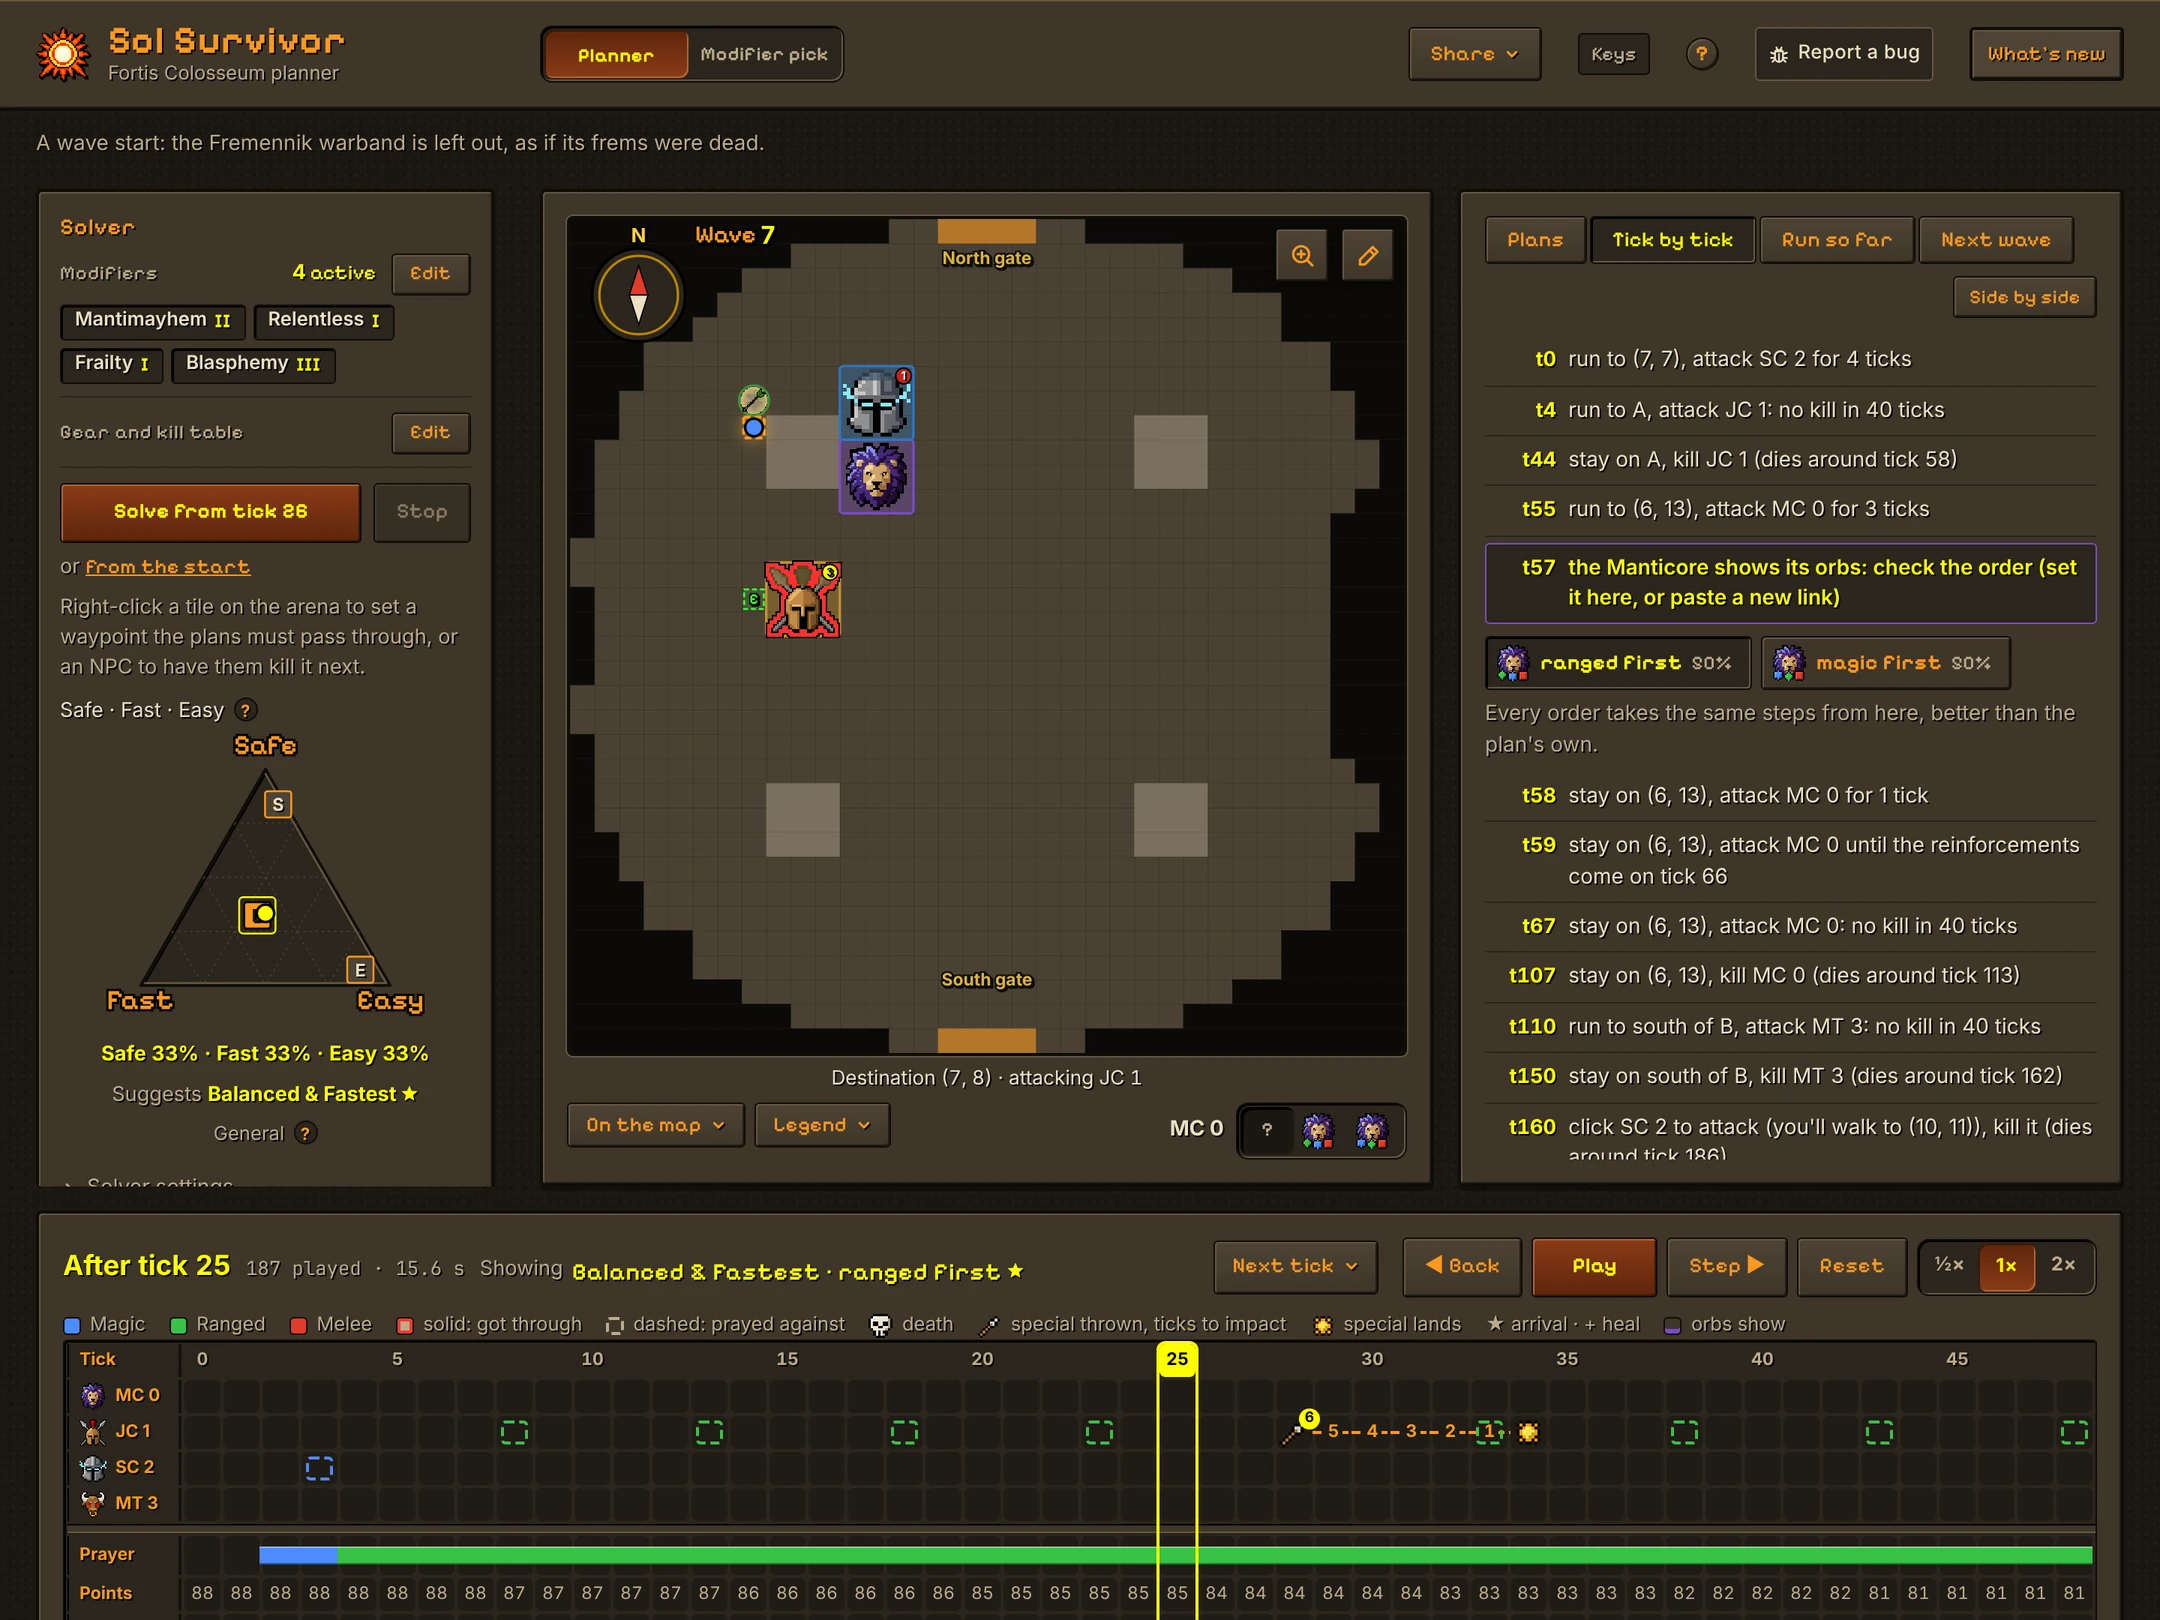
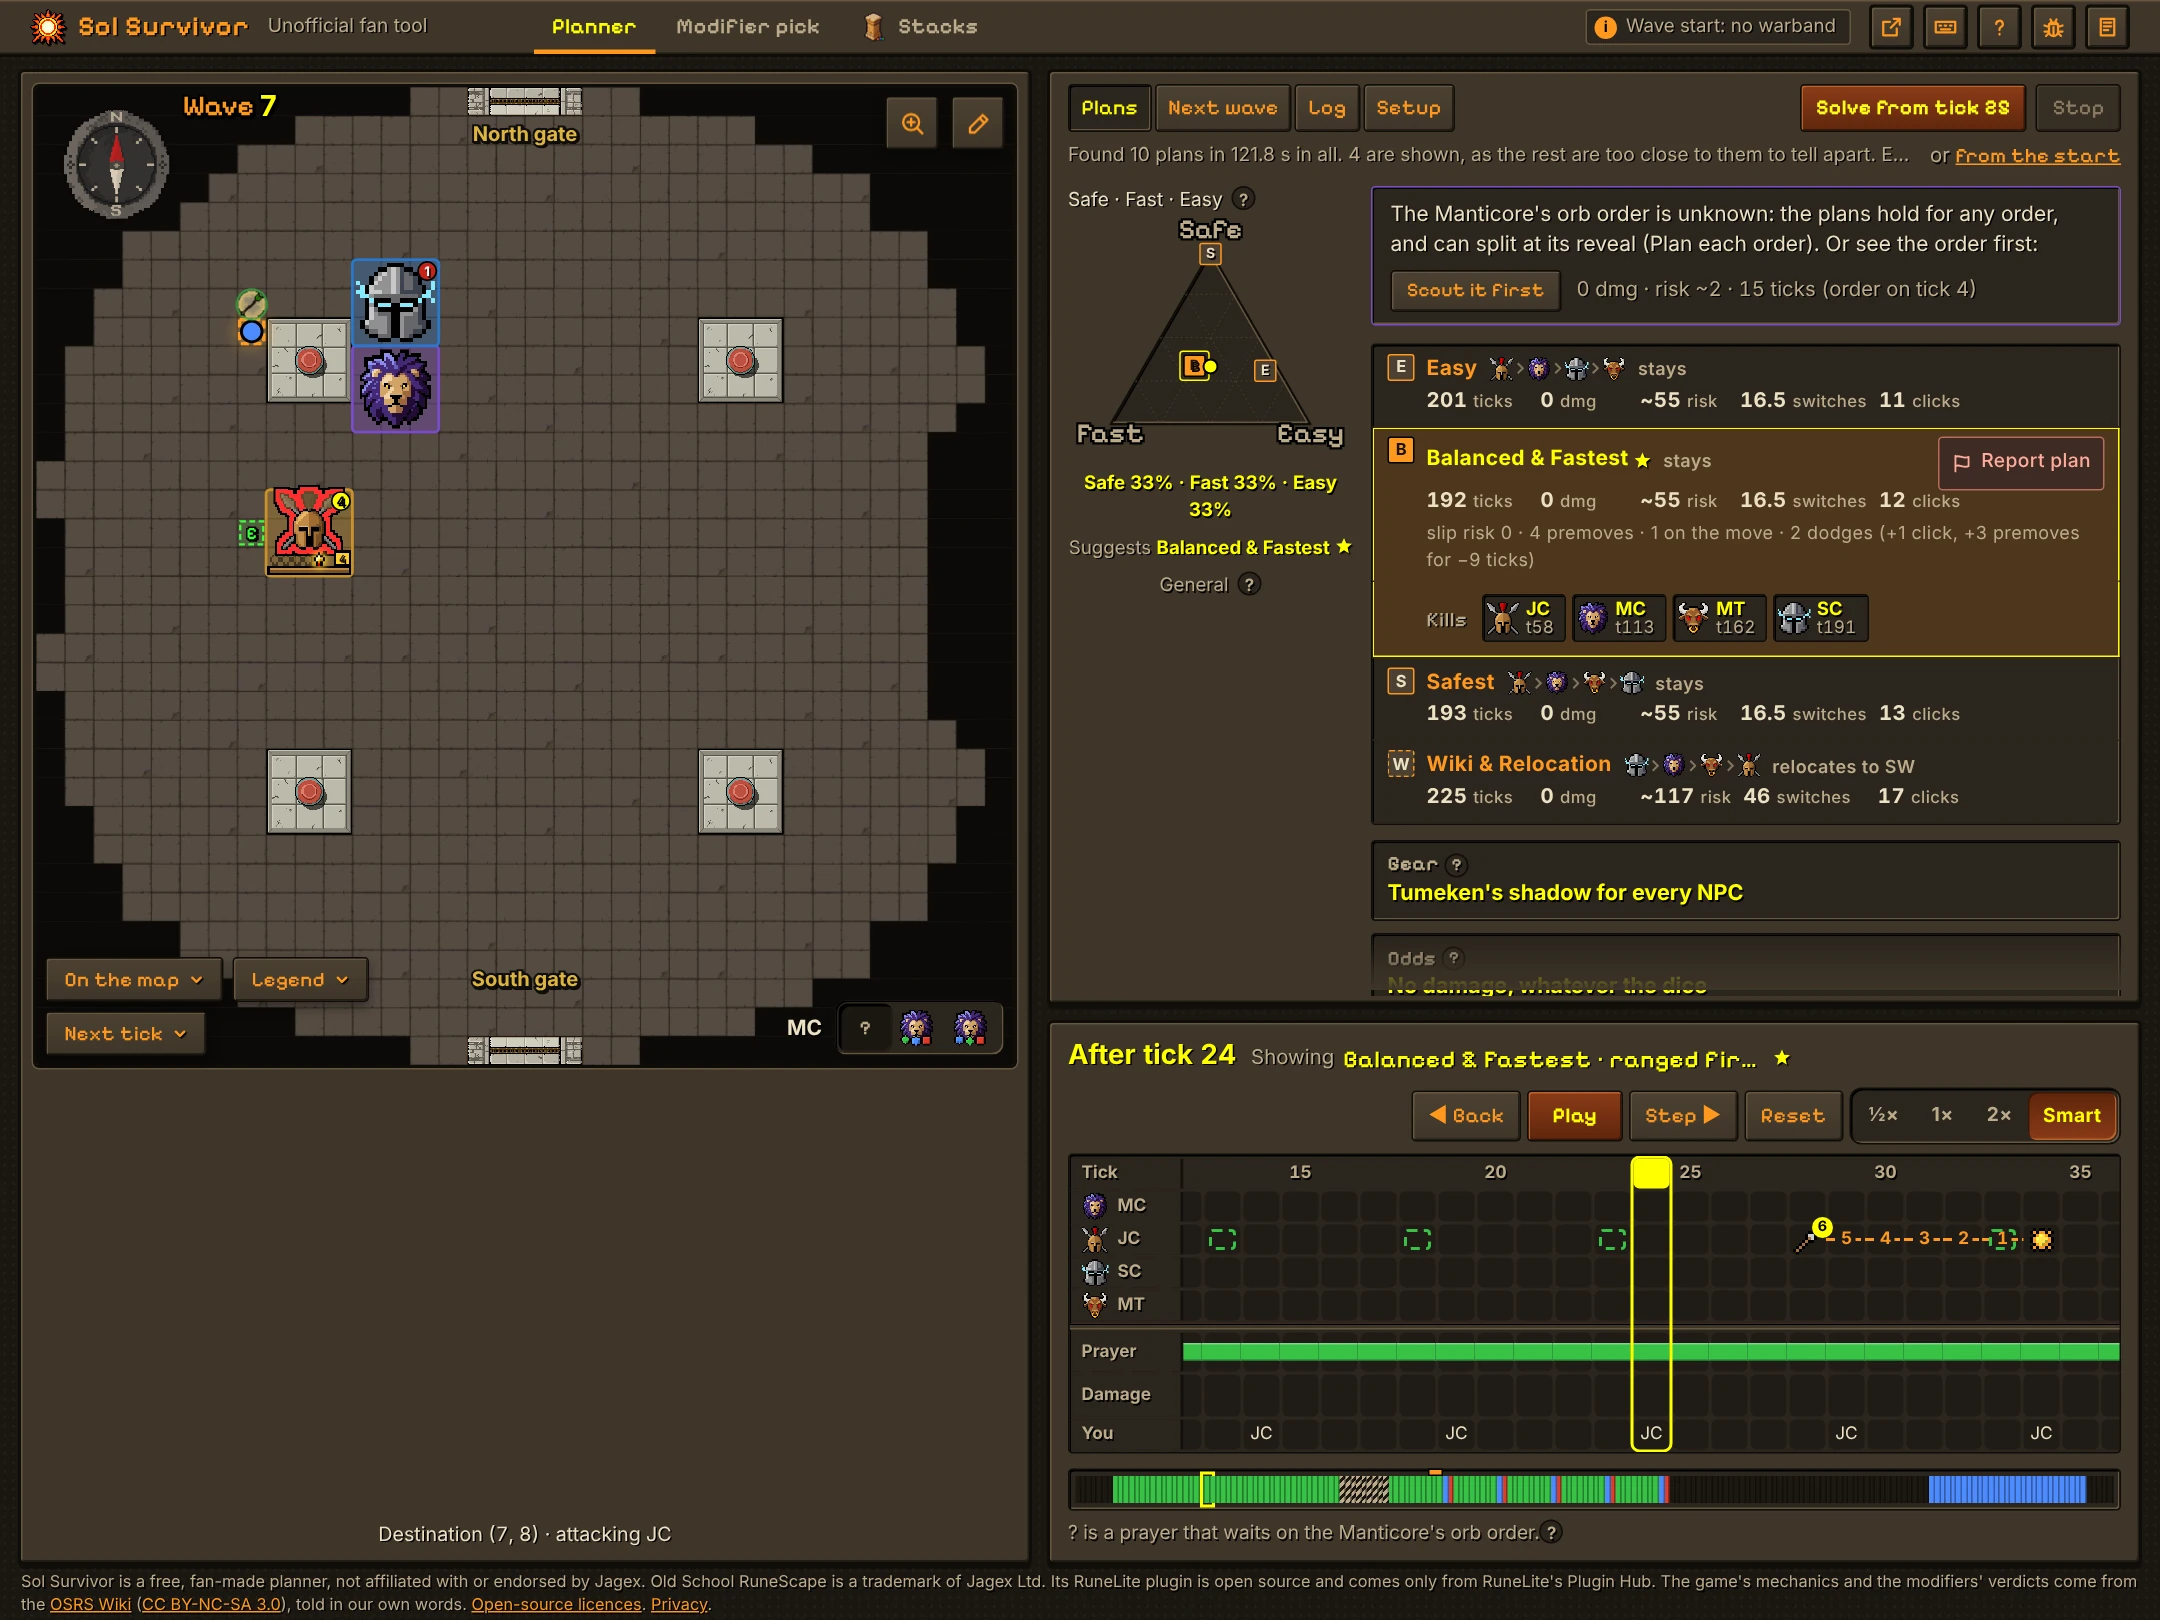
Sol Survivor 0.9.0, from Sol Survivor 89ad8d43adbe

diff --git a/README.md b/README.md
@@ -5,7 +5,7 @@ which prayer to have up on every tick, down to the last kill.
 The plugin draws nothing in the game and never plays for you. It reads the arena, turns it into a link, and opens that
 link in your browser.
 
-![Sol Survivor's planner with a wave 7 opened from the plugin: the arena, the plan's steps tick by tick, and the prayer to have up on each tick](images/planner.webp)
+![Sol Survivor's planner with a wave 7 opened from the plugin and solved: the arena, the plans found on the Safe · Fast · Easy triangle, and the chosen plan's tick grid](images/planner.webp)
 
 ## How it works
 
@@ -39,7 +39,7 @@ work. Expect your computer to notice.
 
 ## The panel
 
-<img src="images/panel.png" width="242" align="right" alt="The Sol Survivor panel in RuneLite during wave 5: the wave's row with Arena now, the Modifier pick, and past waves grouped by run">
+<img src="images/panel.png" width="242" align="right" alt="The Sol Survivor panel in RuneLite during wave 5: the wave's row with Arena now, the Modifier pick, the Leaderboard row, and past waves grouped by run, each wave with its time and glory">
 
 It opens by itself as you enter the Colosseum, and from the sun in RuneLite's sidebar at any time. It wears the Sol
 Survivor site's stone look. The row at the top is for the wave you are in, with its number. Its **Arena now** opens the
@@ -72,18 +72,28 @@ the site's leaderboard outside a wave, and **Remove my times**.
 ## Between waves: which modifier to take
 
 When Minimus makes his offers, press **Open** on the panel's Modifier pick. The site fills in his three offers and the
-modifiers you hold, solves the next wave on a few spawn layouts under each offer, and recommends the one that costs you least. Each
-offer also shows the OSRS Wiki's verdict on it, which decides between offers that cost about the same.
+modifiers you hold, solves the next wave on a few spawn layouts under each offer, and recommends the one that costs you
+least. Each offer also shows the OSRS Wiki's verdict on it and what the video guides make of it, which decide between
+offers that cost about the same.
 
-![Sol Survivor's modifier pick with Minimus's three offers for wave 8, filled in from the plugin and priced by what each adds to the next wave](images/modifier-pick.webp)
+The link also carries the run so far and your reward chest, so the pick shows two more things:
+
+- **Your title run**: the glory your run has earned, worked out by the game's rules, and the titles it has reached. Set a
+  title to aim for, and the pick weighs each offer's glory towards it.
+- **Claim the chest or go on**: what your chest holds at Grand Exchange prices against what the next wave adds and how
+  often you clear it, which you set, with a verdict: Go on, or Claim now.
+
+![Sol Survivor's modifier pick for wave 8, filled in from the plugin: Minimus's three offers priced by what each adds to the next wave, with the wiki's and the video guides' verdicts, the run's glory and titles so far, and the chest's verdict](images/modifier-pick.webp)
 
 ## After a run: watch it back
 
-**Watch**, on a run in the panel, uploads that run's recording and opens it on the site: every wave on the arena as it happened, to
-play, step through or scrub to any tick. The review picks out the moments worth a look, such as damage you took and the
-prayer you had up when it landed.
+With **Upload past runs** on, **Watch**, on a run in the panel, uploads that run's recording and opens it on the site:
+every wave on the arena as it happened, to play, step through or scrub to any tick. Or copy the run with the button
+beside it and paste it on the site, which reviews it without uploading anything. The review picks out the moments worth
+a look, such as damage you took and the prayer you had up when it landed, and adds up the run's glory and the title it
+reached.
 
-![A recorded wave 6 on Sol Survivor's run review, at the moment four hits got through and the prayer that was up when they landed](images/run-review.webp)
+![A recorded wave 7 on Sol Survivor's run review: the run's glory and title, its key moments, and the moment two hits got through for 61 damage](images/run-review.webp)
 
 ## The leaderboard
 
@@ -97,7 +107,8 @@ game's clock does not back is not counted, and one that looks too good to be tru
 
 ## Privacy
 
-- **A wave link keeps the arena after its `#`**, the part of a link that browsers do not send to the site's server.
+- **A wave or Modifier pick link keeps what it holds after its `#`**, the part of a link that browsers do not send to
+  the site's server.
 - **Watch uploads only once you turn on Upload past runs, and only when you press it.** It sends the selected
   run's recording to the Sol Survivor site's `/api/replays` over HTTPS: tiles, hitpoints, prayers, animations, hits, projectiles and NPC state, plus your gear and stats when
   **Include gear and stats** is on. It holds no account name. The site keeps the recording for seven days, and anyone
@@ -131,6 +142,10 @@ so far: each NPC's health bar as you last saw it, your Doom stacks this wave, an
 **Include gear and stats** on, it also holds your worn gear, the weapons in your inventory, your combat levels, your
 prayer points and which of the stronger prayers you have unlocked, from which the site works out how quickly you kill
 each NPC.
+
+**What a Modifier pick link holds:** Minimus's three offers, the modifiers you hold and the wave they come before; each
+wave of the run you finished, with its time, whether you took damage, the modifiers you held and the game's glory and
+wave damage counters as it ended; and your reward chest and the next wave's reward, each item by its name and how many.
 
 ## Settings
 
